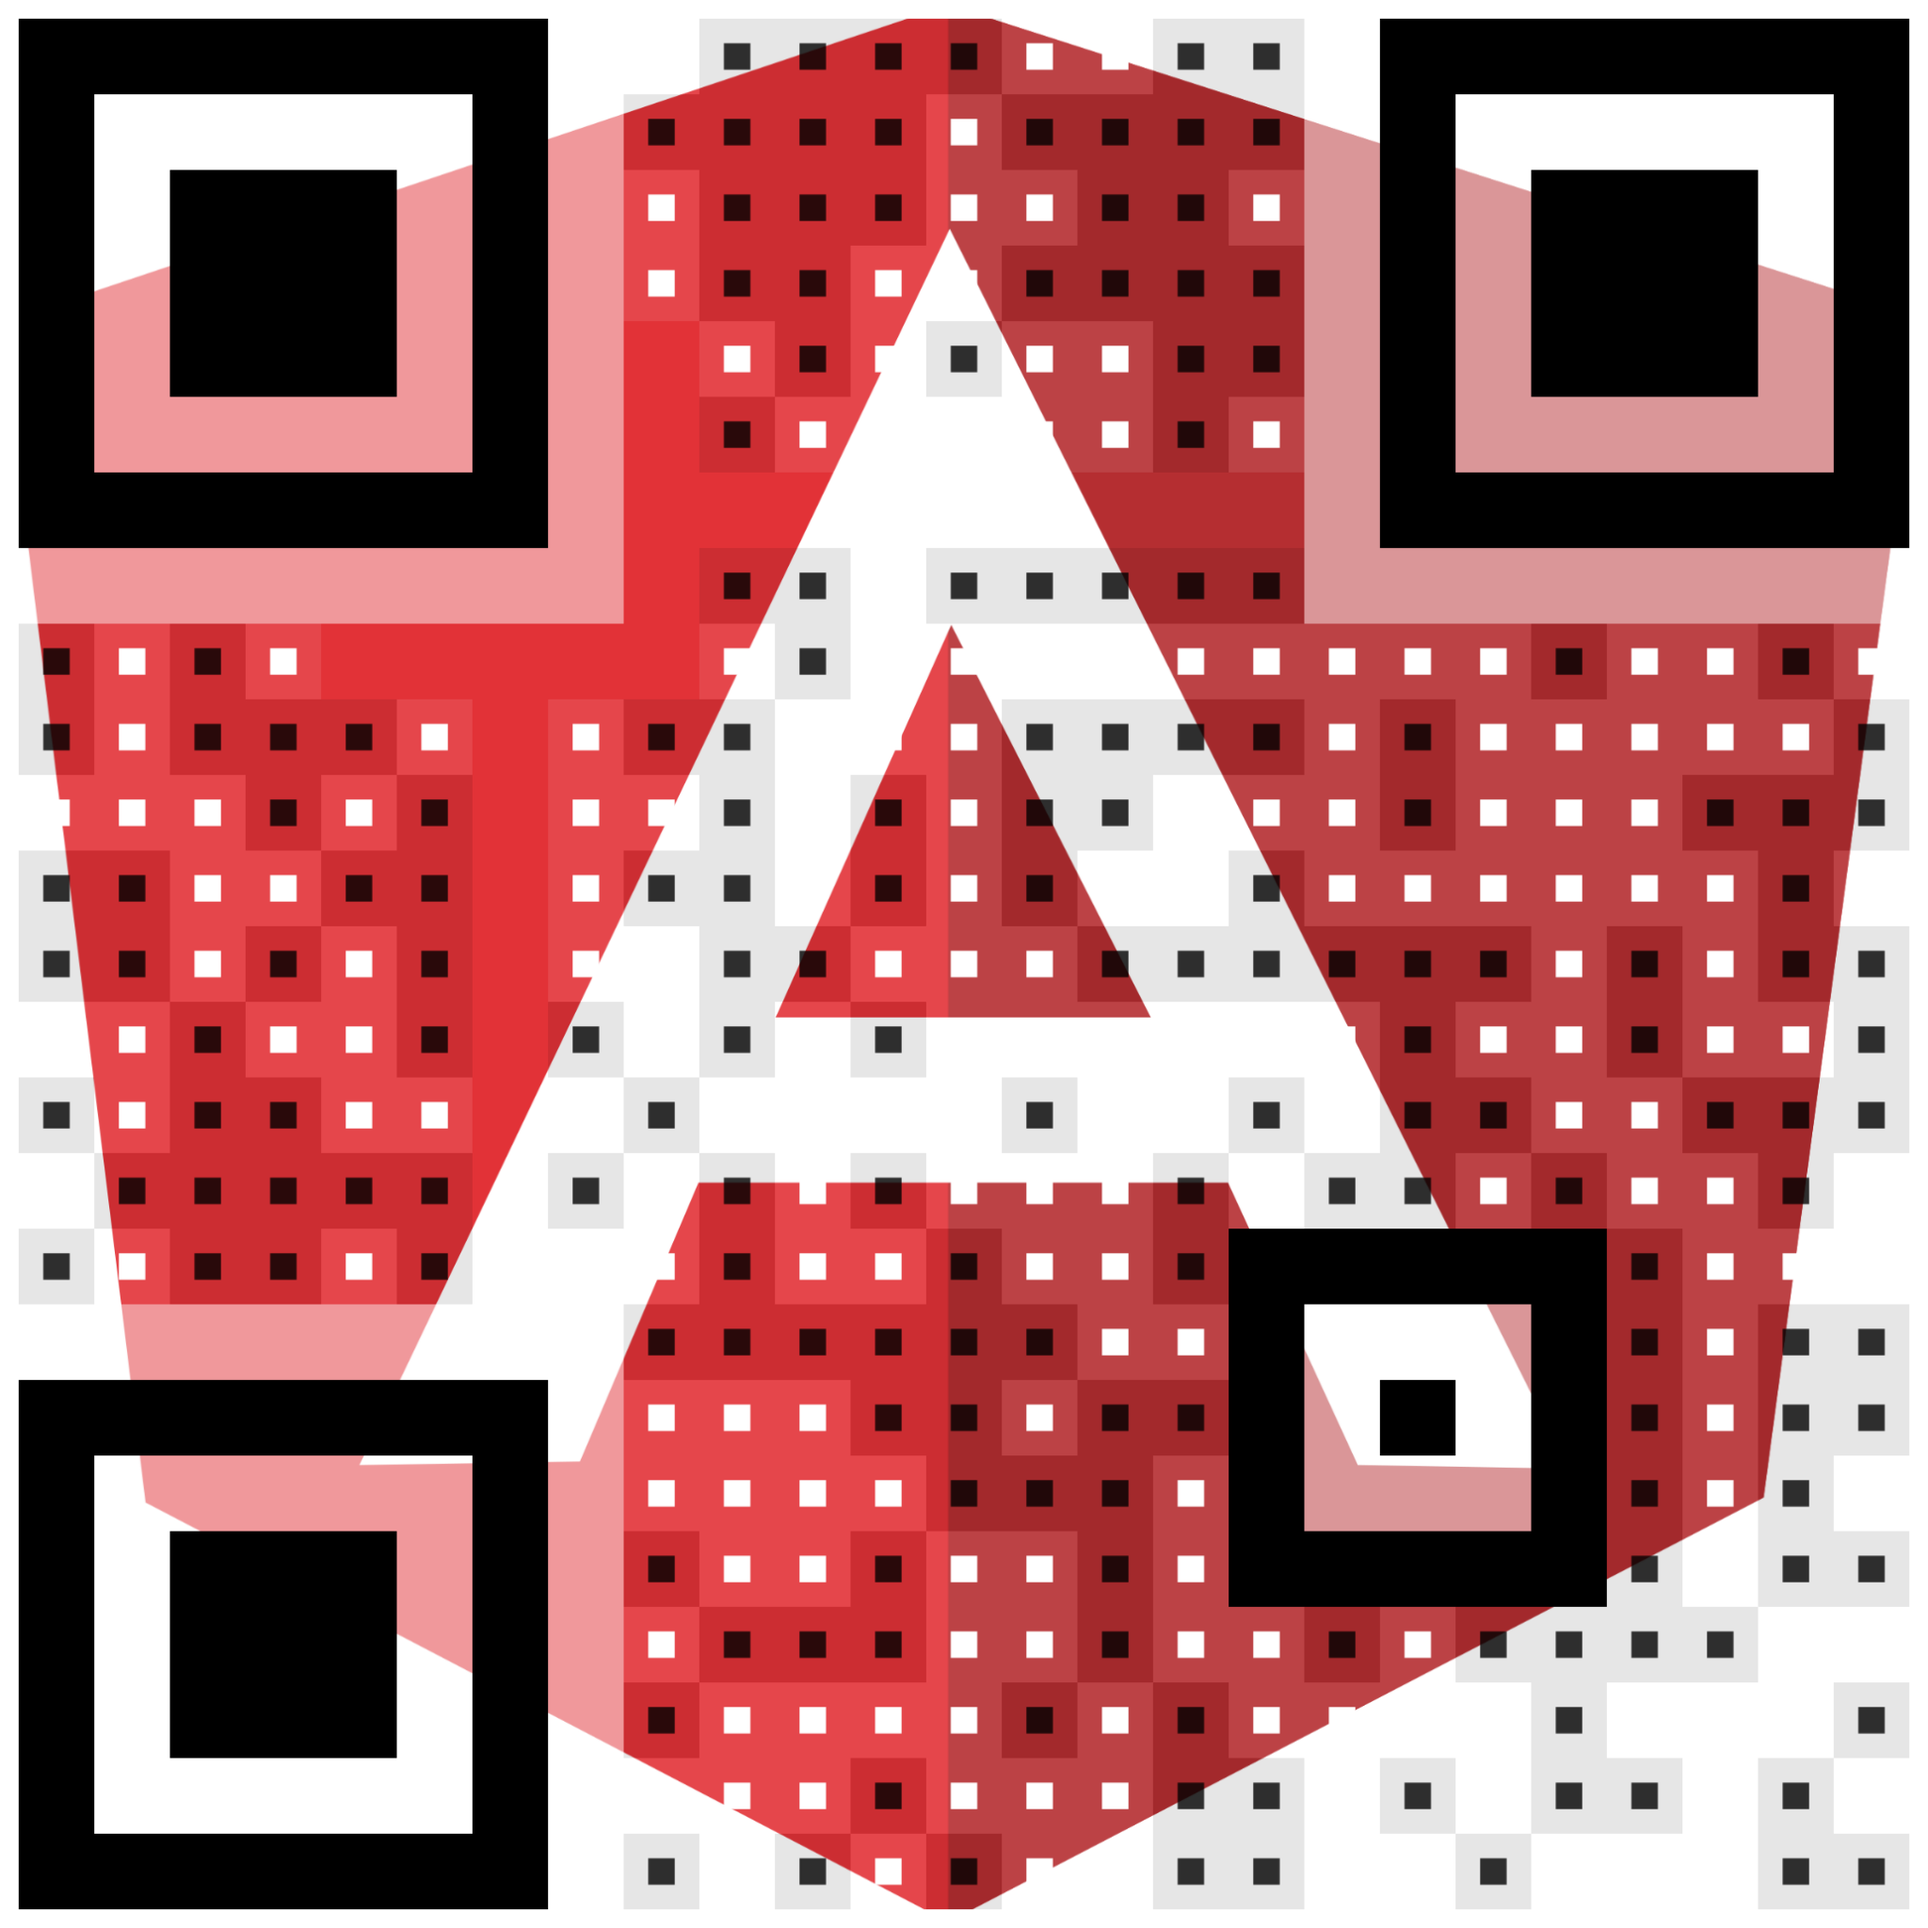
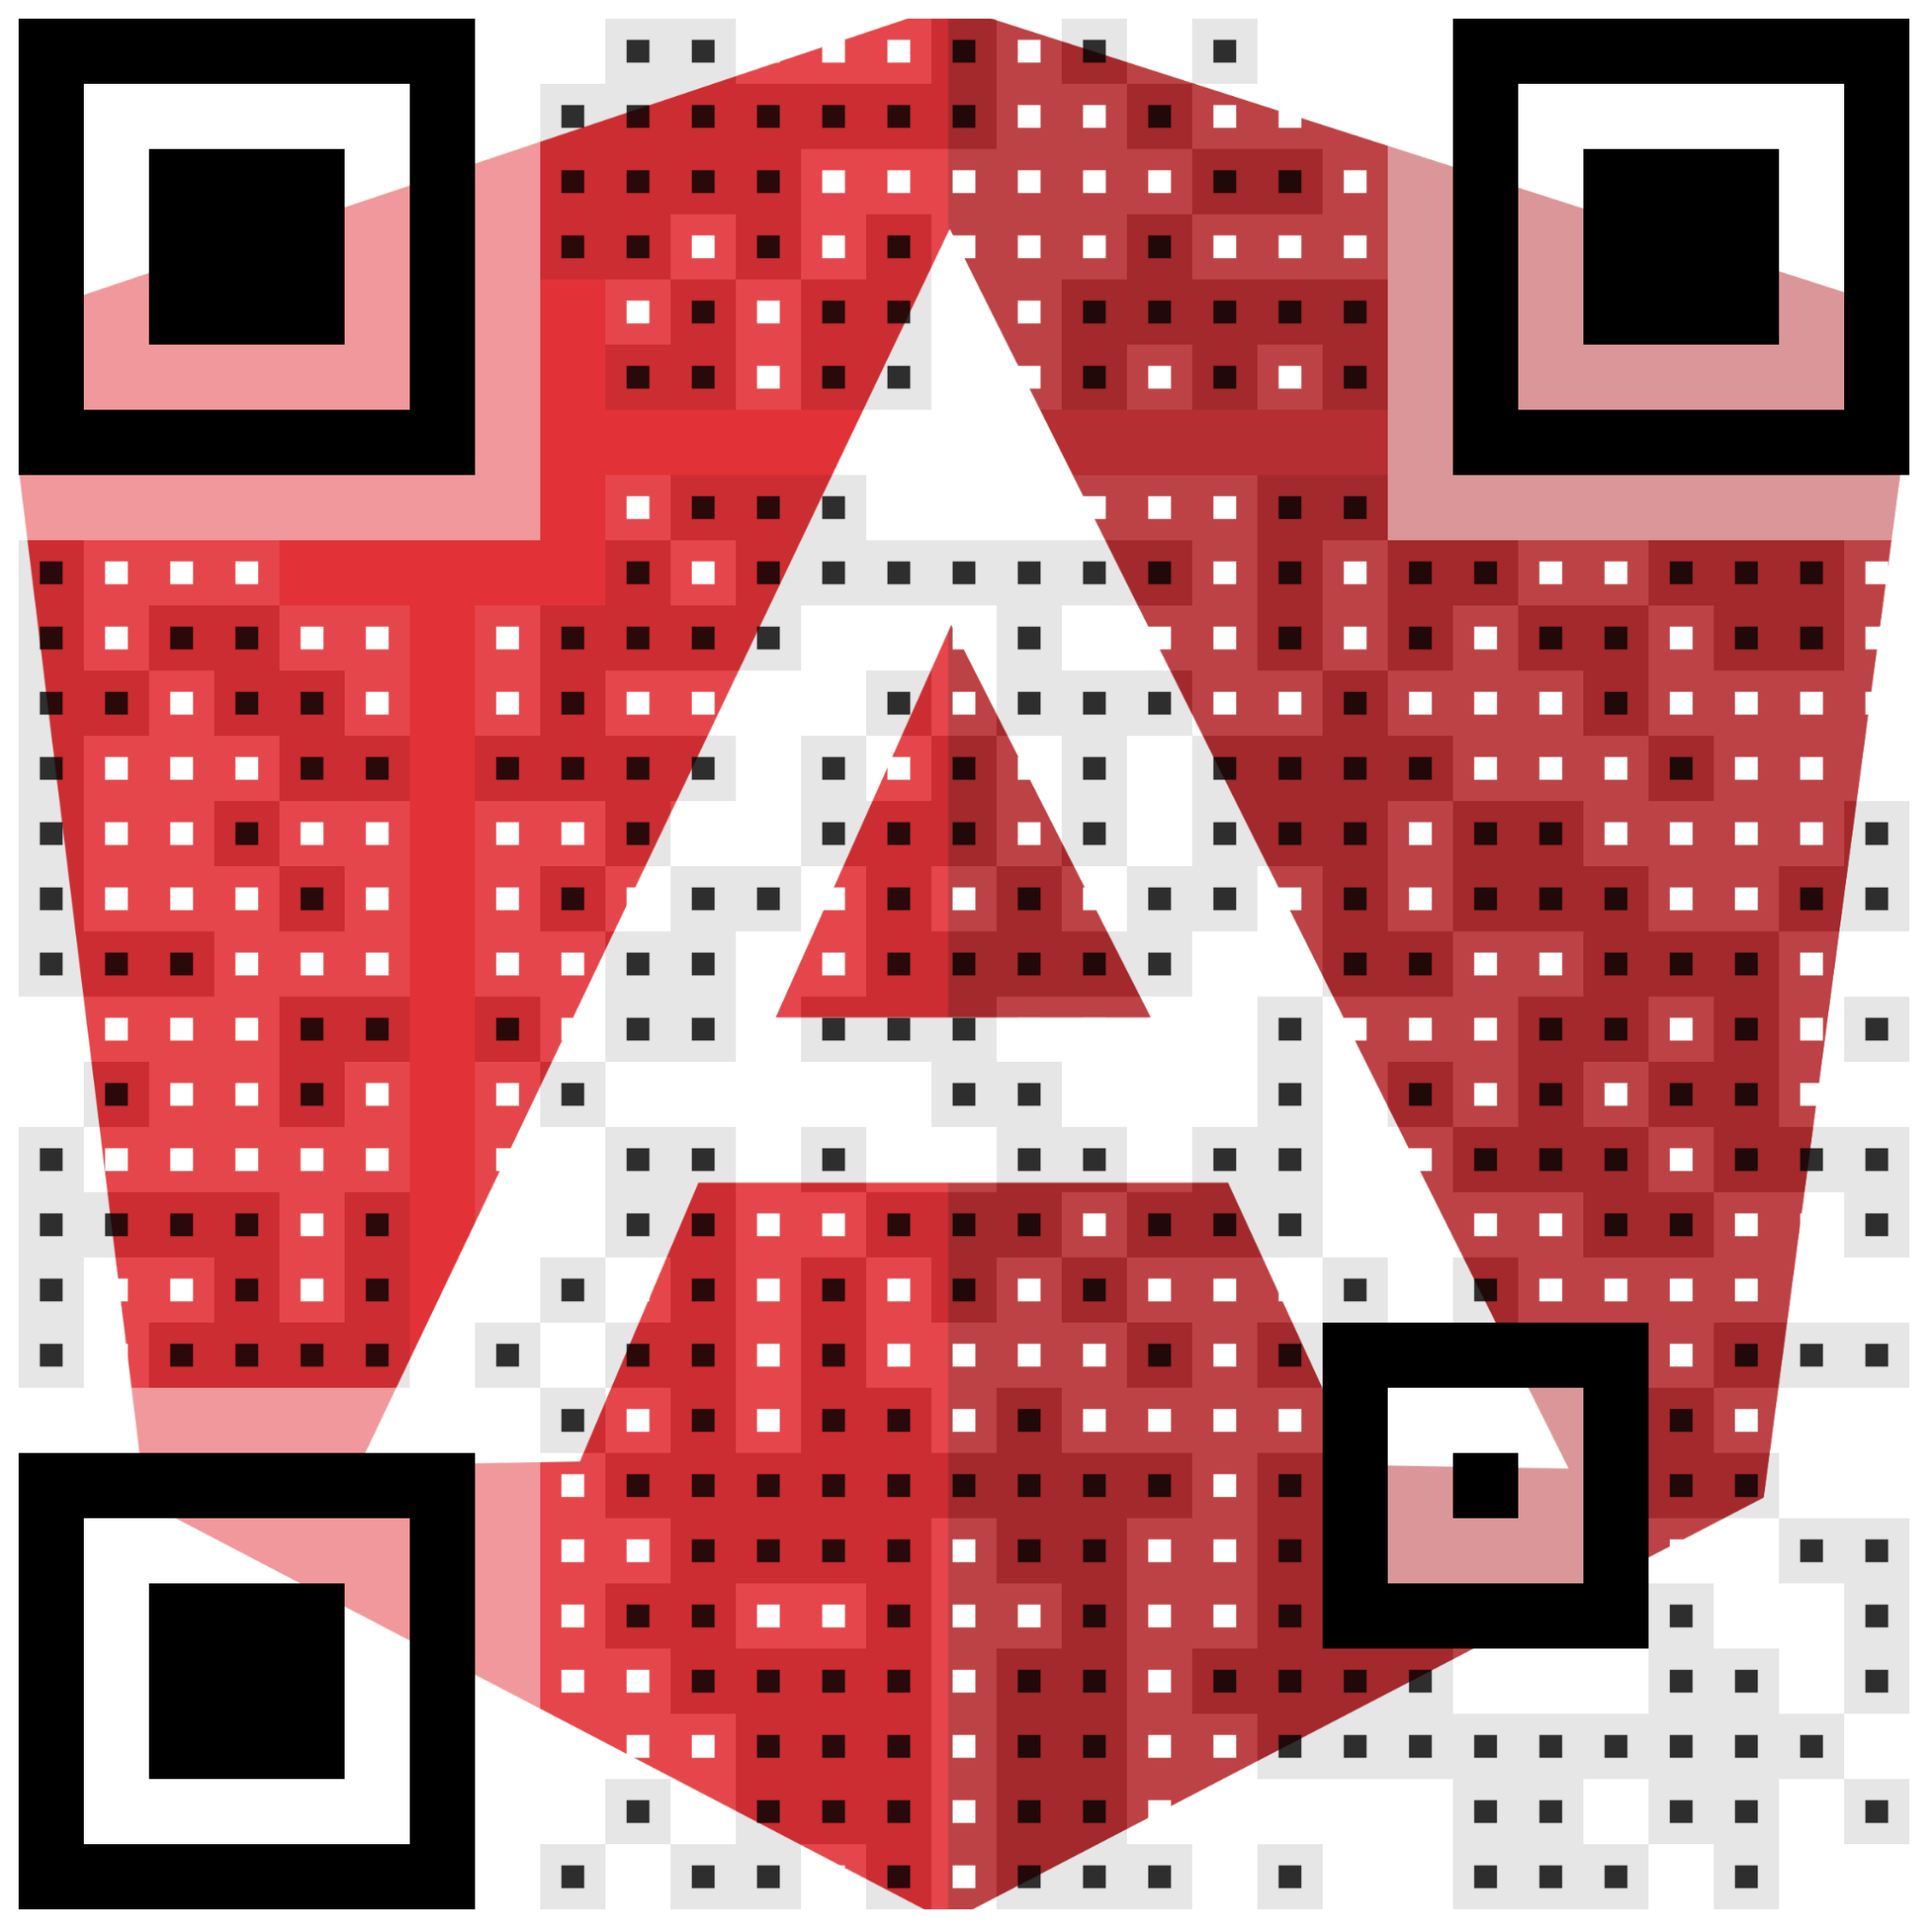
update readme

diff --git a/start.js b/start.js
@@ -2,7 +2,7 @@ let AwesomeQR = require('./awesome-qr-node');
 var fs = require('fs');
 
 new AwesomeQR().create({
-    text: 'https://vqr.mx/T74SR',
+    text: 'https://github.com/Gorniv/Awesome-qr.js',
     size: 2048,
 
     backgroundImage: './assets/angular.png',

diff --git a/README.md b/README.md
@@ -13,6 +13,10 @@ Check out our [**brand-new** live demo](https://www.bitcat.cc/webapp/awesome-qr/
 
 Or you can also access the live demo by typing `bitcat.cc/awesome` in the browser on your smartphone.
 
+### new qrCode with border
+
+![https://github.com/Gorniv/Awesome-qr.js](./test.png)
+
 ### Compatibility
 
 > Awesome-qr.js is compatible with following browsers.
